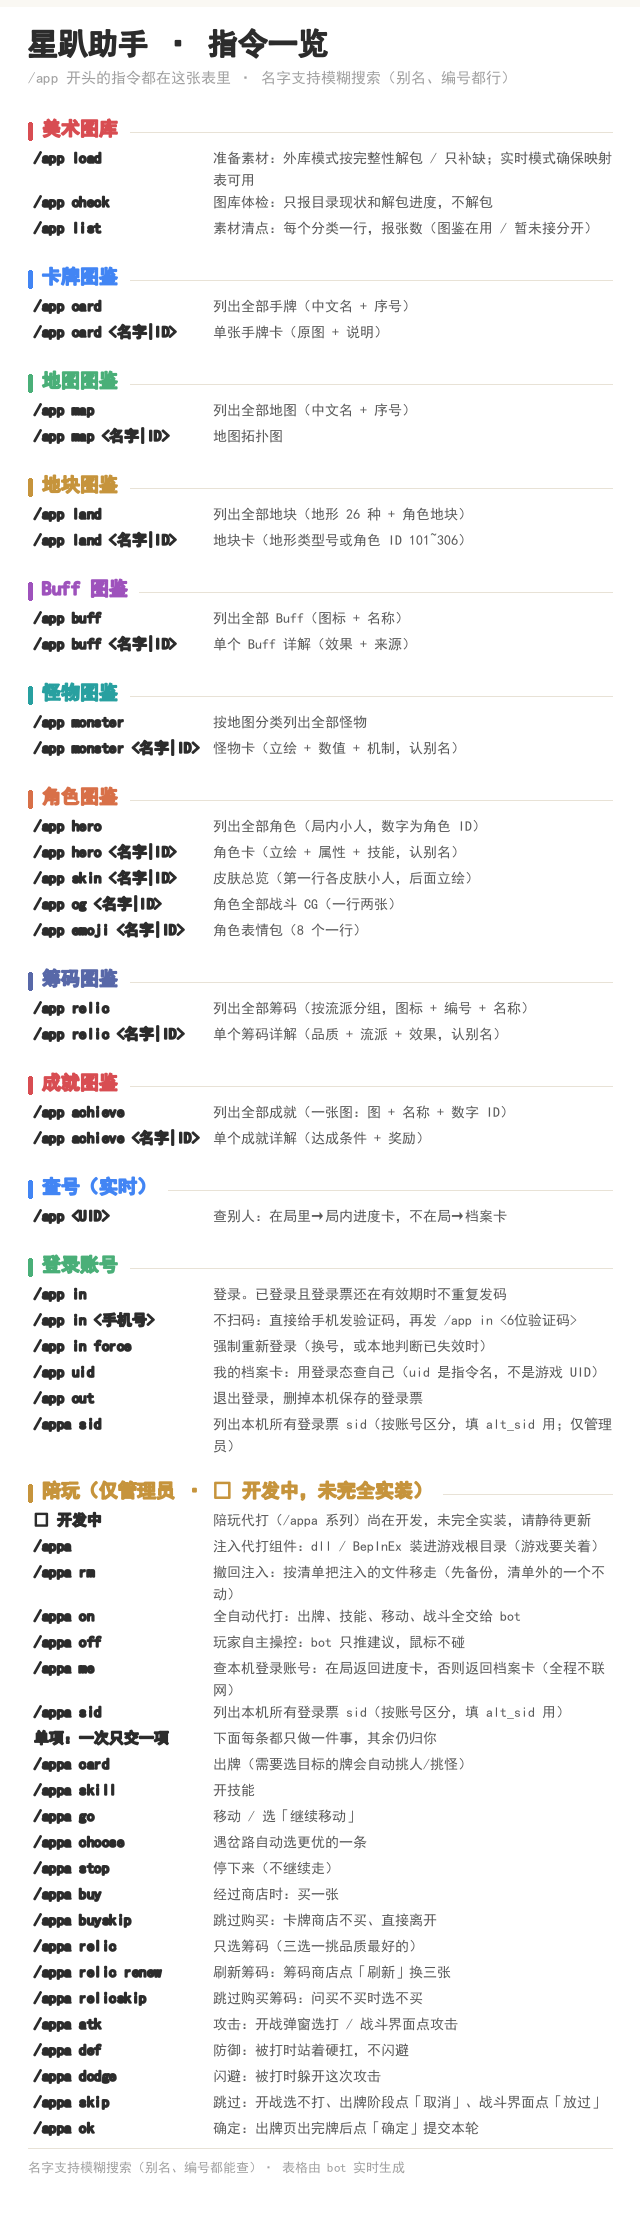
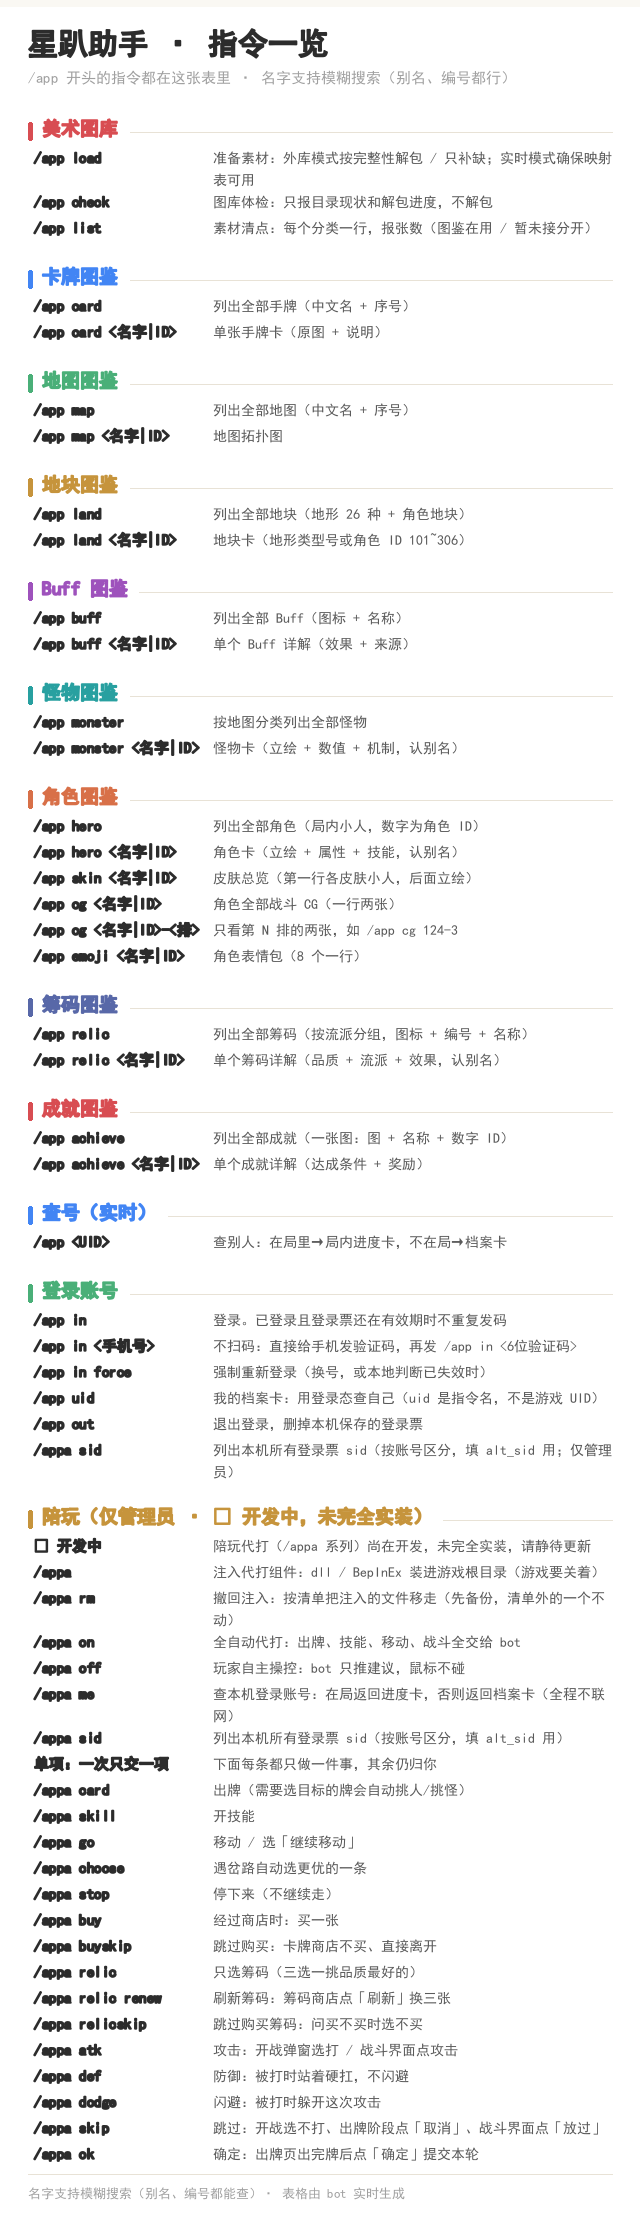
feat: /app cg <角色>-<排> 只出该排两张（/appa cg 同效）
- 按 /app cg 的展示顺序（原始 → 01…→ Max 皮肤，各自帧序）每 2 张一排
- /app cg 124-3 出第 3 排两张；124-4 出第 4 排；越界给出总数与排数
- /appa cg <角色>[-排] 作为只读别名；help / README 补说明；2.4.4

diff --git a/main.py b/main.py
@@ -119,6 +119,7 @@ HELP_SECTIONS = [
         ("/app hero <名字|ID>", "角色卡（立绘 + 属性 + 技能，认别名）"),
         ("/app skin <名字|ID>", "皮肤总览（第一行各皮肤小人，后面立绘）"),
         ("/app cg <名字|ID>", "角色全部战斗 CG（一行两张）"),
+        ("/app cg <名字|ID>-<排>", "只看第 N 排的两张，如 /app cg 124-3"),
         ("/app emoji <名字|ID>", "角色表情包（8 个一行）"),
     ]),
     ("🎯", "筹码图鉴", [
@@ -215,6 +216,9 @@ _ACT_WAIT = {
     "go": 15.0, "choose": 15.0, "stop": 15.0, "buy": 15.0, "relic": 15.0,
     "buyskip": 15.0, "relicskip": 15.0, "ok": 15.0, "relicrenew": 15.0,
 }
+
+# /app cg 124-3：角色 +「-排号」，只出该排的两张（/appa cg 同）
+_CG_ROW_RE = re.compile(r"^(?P<hero>.+?)[-—–](?P<row>\d{1,2})$")
 
 def _clip(text: str, limit: int) -> str:
     text = text.strip()
@@ -1234,12 +1238,36 @@ class AstralPartyPilotPlugin(Star):
             yield event.plain_result(f"渲染「{h['name']}」的立绘出错了：{exc}")
 
     async def _app_hero_cg(self, event: AstrMessageEvent, joined: str):
+        """战斗 CG：/app cg 124 出总览；/app cg 124-3 只出第 3 排的两张。"""
         if not joined:
             yield event.plain_result("要带上角色名字哦，例如：/app cg 照")
             return
+        row = 0
+        m = _CG_ROW_RE.match(joined.strip())
+        if m:
+            joined, row = m.group(1).strip(), int(m.group(2))
         h, _via = _hero_resolve(joined)
         if not h:
             yield event.plain_result(f"知识库里没有「{joined}」这位角色呢")
+            return
+        if row:
+            try:
+                frames = AR.hero_cg_frames(h)
+            except Exception:  # noqa: BLE001
+                frames = []
+            if not frames:
+                yield event.plain_result(f"素材库里没有「{h['name']}」的战斗 CG 呢")
+                return
+            per = 2
+            start = (row - 1) * per
+            total_rows = (len(frames) + per - 1) // per
+            if row < 1 or start >= len(frames):
+                yield event.plain_result(
+                    f"「{h['name']}」一共 {len(frames)} 张战斗 CG（{total_rows} 排），"
+                    f"没有第 {row} 排呢～")
+                return
+            for _lab, path in frames[start:start + per]:
+                yield event.image_result(path)
             return
         try:
             fd, tmp = tempfile.mkstemp(suffix=".png", prefix="app_cg_")
@@ -1738,12 +1766,19 @@ class AstralPartyPilotPlugin(Star):
                 yield result
             return
 
+        # 图鉴类（只读）：/appa cg 124-3 和 /app cg 124-3 同一套，出图不碰游戏
+        if sub in ("cg", "bust", "战斗cg"):
+            async for result in self._app_hero_cg(event, joined):
+                yield result
+            return
+
         act = PILOT_ACT_ALIAS.get(sub)
         if not act:
             yield event.plain_result(
                 f"「{sub}」不是 /appa 的子命令呢～可用的有：\n"
                 "· 开关：on（全自动）· off（自主操控）· me（查本机）· sid（登录票）\n"
                 "· 单项：card / skill / go / choose / stop / relic / buy / buyskip / relicskip / atk / def / dodge / skip / ok\n"
+                "· 图鉴：cg <名字|ID>[-排]（同 /app cg，只出图）\n"
                 "· 不带参数：把代打组件注入游戏根目录（游戏要关着）\n"
                 "· rm：按注入清单撤回注入的文件（先备份，清单外的不动）\n"
                 "完整说明发 /app help 看「陪玩」那一节")

diff --git a/pkg/artrender.py b/pkg/artrender.py
@@ -1022,8 +1022,8 @@ def render_hero_skins(hero: dict, out_path: str, cols: int = 3,
 
 
 # ---------------------------------------------------------------- 战斗CG ----
-def render_hero_cg(hero: dict, out_path: str, cols: int = 2,
-                   cell_w: int = 600, cell_h: int = 346) -> str:
+def hero_cg_frames(hero: dict) -> list[tuple[str, str]]:
+    """按 /app cg 的展示顺序返回 [(标签, 图片路径)]：先皮肤（原始 → 01…→ Max），再帧序。"""
     frames: list[tuple[str, str]] = []
     for sfx, fr in artlib.hero_cgs(hero["id"]):
         for idx in sorted(fr):
@@ -1031,6 +1031,12 @@ def render_hero_cg(hero: dict, out_path: str, cols: int = 2,
             if len(fr) > 1:
                 lab += f" · {idx + 1}"
             frames.append((lab, fr[idx]))
+    return frames
+
+
+def render_hero_cg(hero: dict, out_path: str, cols: int = 2,
+                   cell_w: int = 600, cell_h: int = 346) -> str:
+    frames = hero_cg_frames(hero)
     if not frames:
         raise FileNotFoundError("没有找到该角色的战斗CG")
 

diff --git a/README.md b/README.md
@@ -53,6 +53,7 @@
 | `/app hero <名字\|ID>`    | 角色简介卡（立绘 + 属性 + 技能，支持别名与模糊匹配）                                  |
 | `/app skin <名字\|ID>`    | 角色皮肤一览                                                         |
 | `/app cg <名字\|ID>`      | 角色战斗 CG                                                        |
+| `/app cg <名字\|ID>-<排>`   | 只看第 N 排的两张 CG，如 `/app cg 124-3`（`/appa cg` 同效）                  |
 | `/app emoji <名字\|ID>`   | 角色表情包                                                          |
 | `/app relic`            | 全筹码图鉴（按流派分组）                                                   |
 | `/app relic <名字\|ID>`   | 单筹码详情（品质 + 流派 + 效果说明，认别名）                                      |
